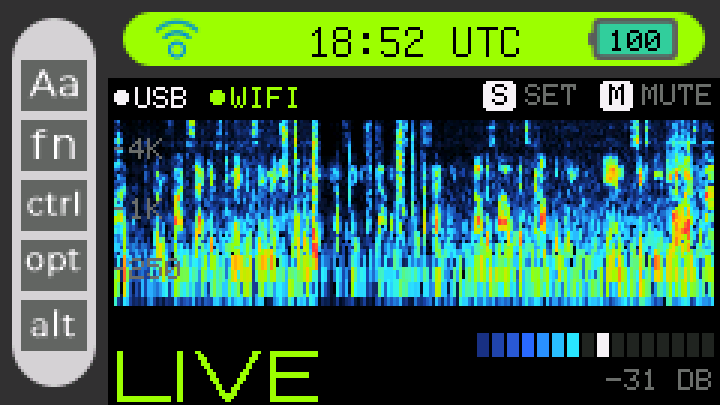
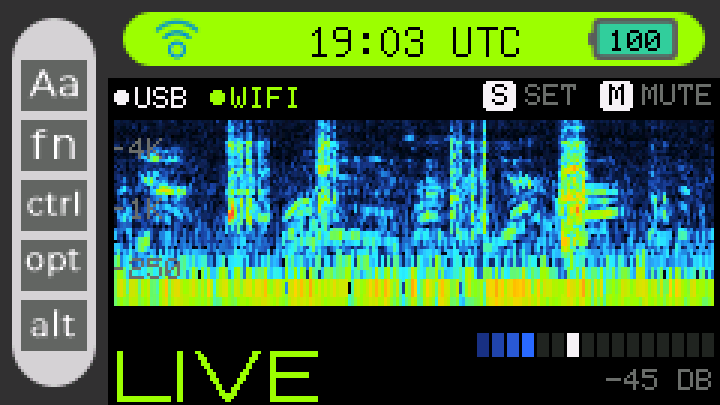
0.5.1: friendlier update check

diff --git a/firmware/main/apps/app_cardmic/cardmic_ota.c b/firmware/main/apps/app_cardmic/cardmic_ota.c
@@ -26,6 +26,7 @@ static volatile cardmic_ota_state_t s_state = CARDMIC_OTA_IDLE;
 static volatile int s_progress;
 static char s_latest[32];
 static char s_error[32];
+static volatile int s_http_status;  // last HTTP status seen, after redirects
 
 static void fail(const char *msg)
 {
@@ -48,6 +49,14 @@ static esp_err_t http_init(esp_http_client_handle_t client)
     return esp_http_client_set_header(client, "User-Agent", "cardmic");
 }
 
+static esp_err_t http_event(esp_http_client_event_t *evt)
+{
+    if (evt->event_id == HTTP_EVENT_ON_HEADER || evt->event_id == HTTP_EVENT_ON_FINISH) {
+        s_http_status = esp_http_client_get_status_code(evt->client);
+    }
+    return ESP_OK;
+}
+
 // Opens the download and reads the image header. On ESP_OK the caller owns *out.
 static esp_err_t open_latest(esp_https_ota_handle_t *out, esp_app_desc_t *desc)
 {
@@ -59,7 +68,9 @@ static esp_err_t open_latest(esp_https_ota_handle_t *out, esp_app_desc_t *desc)
         .buffer_size_tx = 2048,  // and the signed asset URL is ~1 KB long
         .max_redirection_count = 5,
         .keep_alive_enable = true,
+        .event_handler = http_event,
     };
+    s_http_status = 0;
     esp_https_ota_config_t ota = {.http_config = &http, .http_client_init_cb = http_init};
     esp_err_t err = esp_https_ota_begin(&ota, out);
     if (err != ESP_OK) {
@@ -81,7 +92,17 @@ static void ota_task(void *arg)
     esp_app_desc_t desc;
 
     if (open_latest(&h, &desc) != ESP_OK) {
-        fail(install ? "DOWNLOAD FAILED" : "NO RELEASE FOUND");
+        if (!install && s_http_status == 404) {
+            // Nothing published (yet) that this device could install: the
+            // running firmware is the newest there is.
+            strlcpy(s_latest, esp_app_get_description()->version, sizeof(s_latest));
+            s_state = CARDMIC_OTA_UP_TO_DATE;
+        } else if (s_http_status == 0) {
+            fail("NO CONNECTION TO GITHUB");
+        } else {
+            snprintf(s_error, sizeof(s_error), "CHECK FAILED (HTTP %d)", s_http_status);
+            s_state = CARDMIC_OTA_FAILED;
+        }
         vTaskDelete(NULL);
         return;
     }
@@ -140,6 +161,13 @@ void cardmic_ota_install(void)
 {
     if (s_state != CARDMIC_OTA_AVAILABLE) return;
     start(true);
+}
+
+void cardmic_ota_dismiss(void)
+{
+    if (s_state == CARDMIC_OTA_AVAILABLE || s_state == CARDMIC_OTA_UP_TO_DATE || s_state == CARDMIC_OTA_FAILED) {
+        s_state = CARDMIC_OTA_IDLE;
+    }
 }
 
 cardmic_ota_state_t cardmic_ota_state(void) { return s_state; }

diff --git a/firmware/main/apps/app_cardmic/app_cardmic.cpp b/firmware/main/apps/app_cardmic/app_cardmic.cpp
@@ -393,6 +393,7 @@ bool go_back()
             break;  // busy; ignore
         case Page::About:
             if (cardmic_ota_state() != CARDMIC_OTA_DOWNLOADING && cardmic_ota_state() != CARDMIC_OTA_DONE) {
+                cardmic_ota_dismiss();
                 s_page = Page::Settings;
             }
             break;
@@ -916,10 +917,10 @@ void draw_about()
             text(&fonts::Font0, C_TEXT, 2, y, "CHECKING GITHUB...");
             break;
         case CARDMIC_OTA_UP_TO_DATE:
-            text(&fonts::Font0, C_ACCENT, 2, y, "UP TO DATE");
+            text(&fonts::Font0, C_ACCENT, 2, y, ("UP TO DATE  V" + std::string(app->version) + " IS THE LATEST").c_str());
             break;
         case CARDMIC_OTA_AVAILABLE:
-            text(&fonts::Font0, C_CYAN, 2, y, ("V" + latest + " AVAILABLE").c_str());
+            text(&fonts::Font0, C_CYAN, 2, y, ("V" + latest + " AVAILABLE. INSTALL NOW?").c_str());
             break;
         case CARDMIC_OTA_DOWNLOADING: {
             int pct = cardmic_ota_progress();
@@ -939,7 +940,7 @@ void draw_about()
     }
     switch (cardmic_ota_state()) {
         case CARDMIC_OTA_AVAILABLE:
-            hint_row({{"ENT", "INSTALL"}, {"G0", "BACK"}});
+            hint_row({{"ENT", "INSTALL"}, {"G0", "LATER"}});
             break;
         case CARDMIC_OTA_CHECKING:
         case CARDMIC_OTA_DOWNLOADING:

diff --git a/firmware/main/apps/app_cardmic/cardmic_ota.h b/firmware/main/apps/app_cardmic/cardmic_ota.h
@@ -33,7 +33,8 @@ typedef enum {
 
 // Both run in a background task and return immediately. Needs Wi-Fi.
 void cardmic_ota_check(void);
-void cardmic_ota_install(void);
+void cardmic_ota_install(void);  // only after a check found a newer version
+void cardmic_ota_dismiss(void);  // "later": forget an available update
 
 cardmic_ota_state_t cardmic_ota_state(void);
 const char *cardmic_ota_latest(void);  // e.g. "0.5.1"; "" before a check

diff --git a/CHANGELOG.md b/CHANGELOG.md
@@ -1,5 +1,12 @@
 # Changelog
 
+## 0.5.1 — 2026-09-22
+
+- Check update now says "Up to date" when there is nothing newer to install,
+  instead of reporting an error.
+- A newer version is offered with a confirmation step: `Enter` installs,
+  `G0` dismisses it for later.
+
 ## 0.5.0 — 2026-09-22
 
 First public release.
